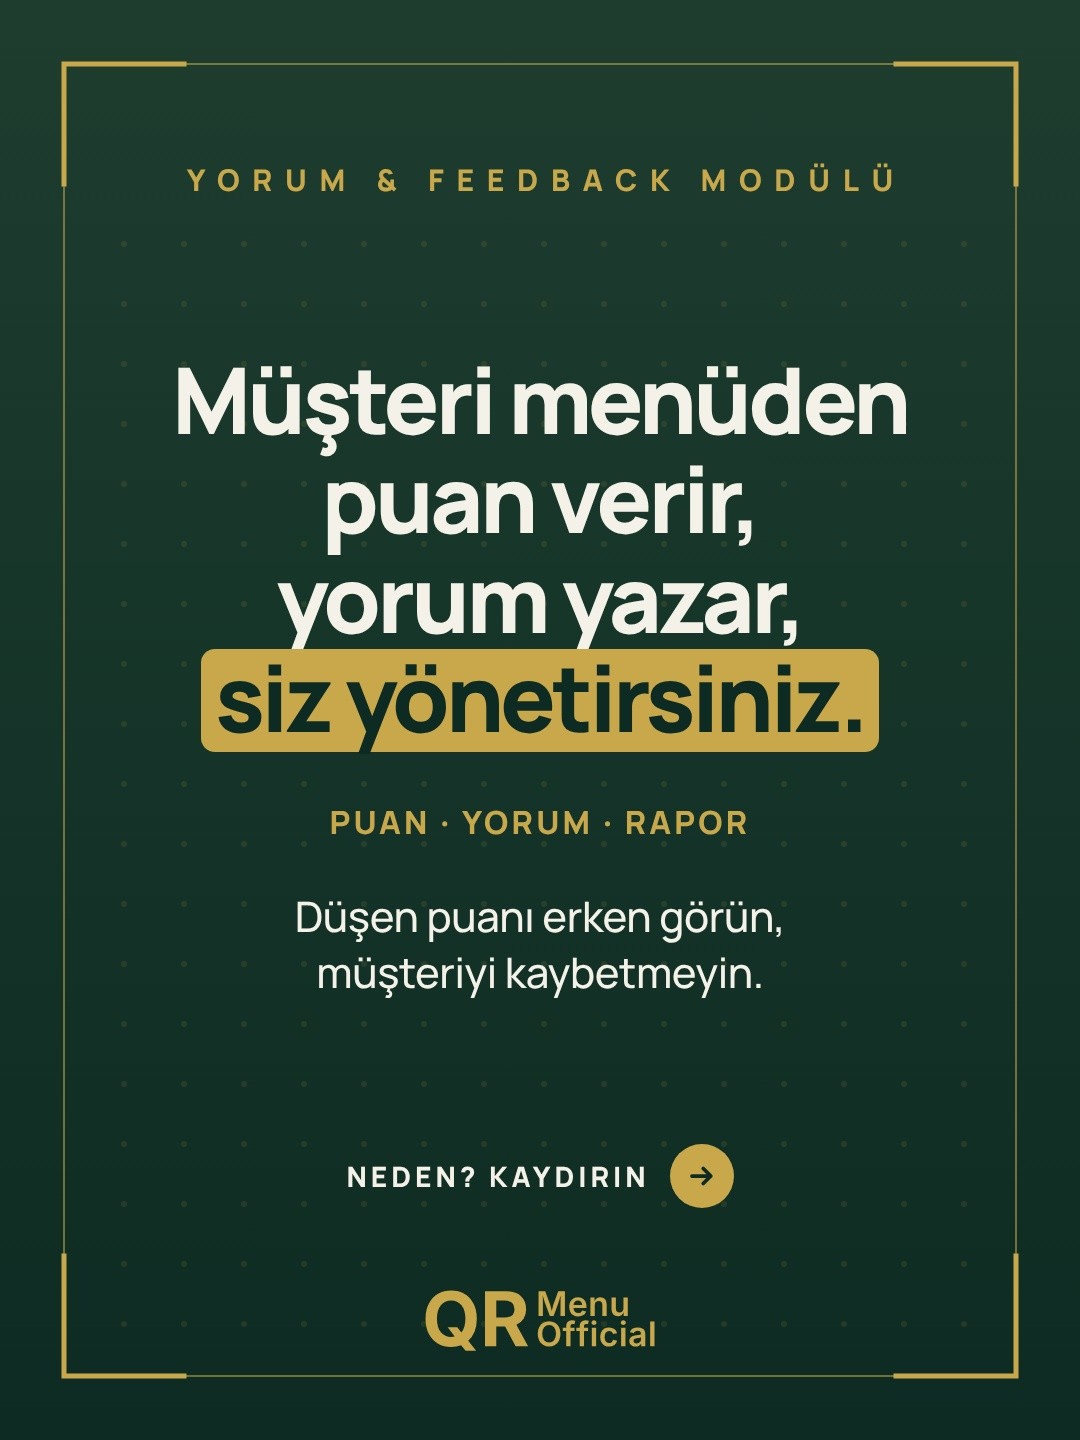
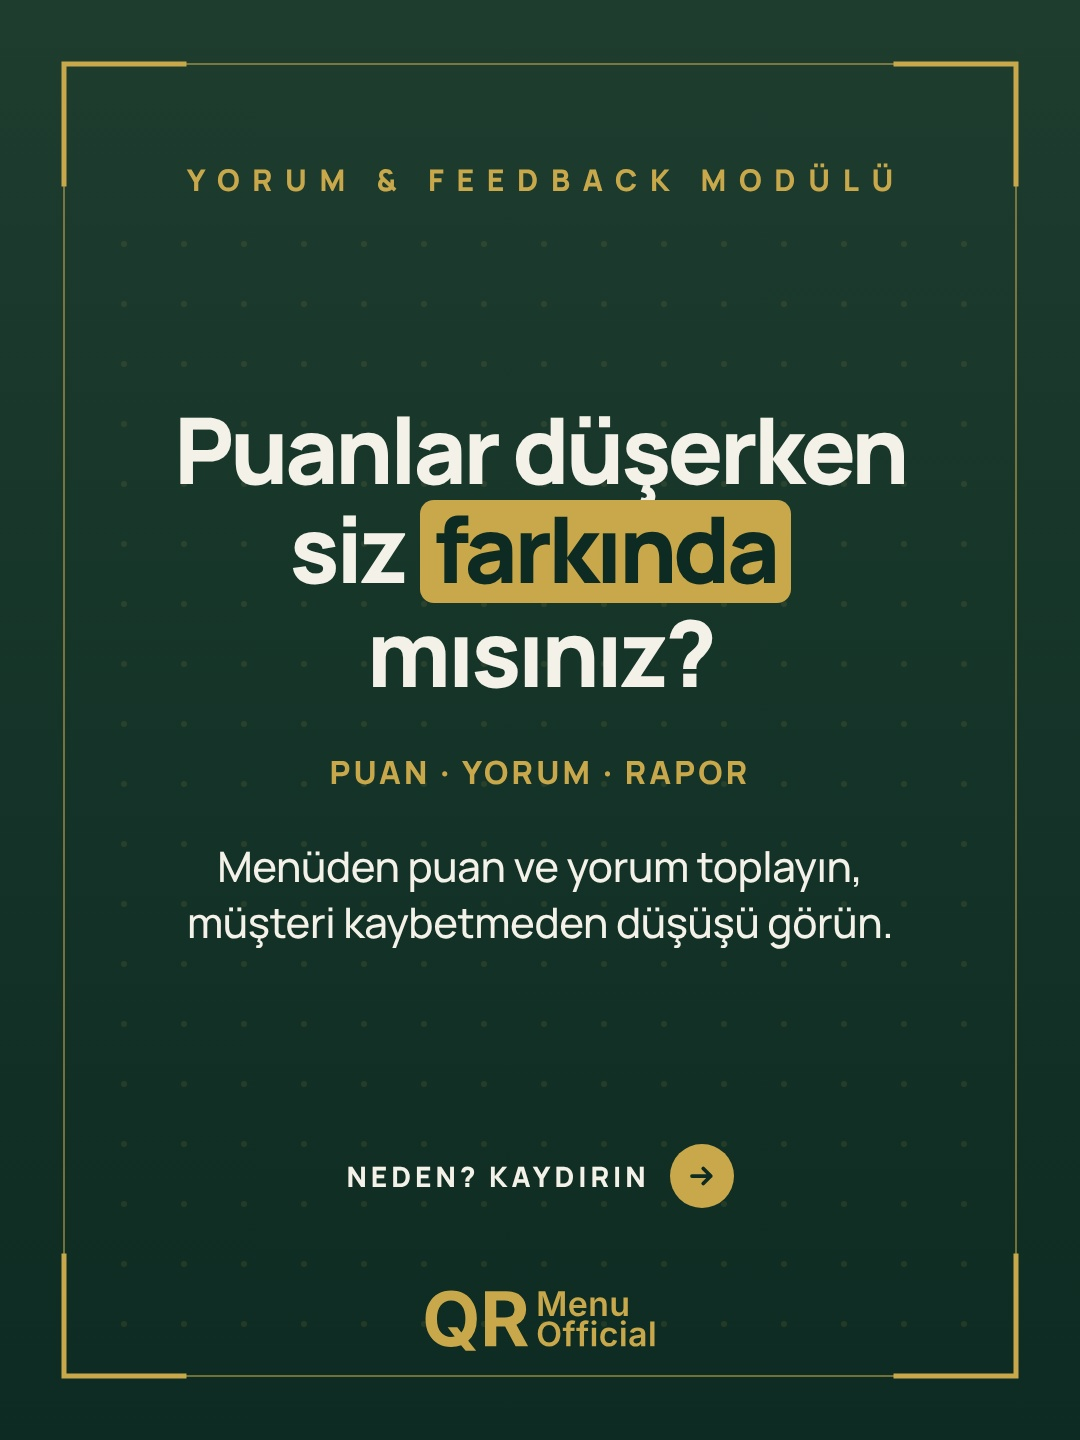
Yorum & Feedback carousel kapağı: Puanlar düşerken siz farkında mısınız?
Claude-Session: https://claude.ai/code/session_01FBw9rVwrniVjyFvtgVdFXq

Changed region(s): [[0.1528, 0.25, 0.8556, 0.6875]]

diff --git a/tools/ig-carousel/yorum-feedback.html b/tools/ig-carousel/yorum-feedback.html
@@ -175,9 +175,9 @@ const nx=(t,c)=>`<div class="nx">${t}<i>${ARW(c)}</i></div>`;
 const LAB='<div class="lab LCLS" style="font-size:30px;padding-top:34px">YORUM &amp; FEEDBACK MODÜLÜ</div>';
 const SL={
 1:{bg:'altin',html:()=>LAB.replace('LCLS','')+`
- <div class="area c" style="top:200px;bottom:290px"><div class="h" id="H" data-max="92" data-min="76">${L(['Müşteri menüden','puan verir,','yorum yazar,','[[siz yönetirsiniz.]]'])}</div>
+ <div class="area c" style="top:200px;bottom:290px"><div class="h" id="H" data-max="92" data-min="76">${L(['Puanlar düşerken','siz [[farkında]]','mısınız?'])}</div>
  <div class="langs">PUAN · YORUM · RAPOR</div>
- <div class="p" id="P" data-max="42" data-min="36">${L(['Düşen puanı erken görün,','müşteriyi kaybetmeyin.'])}</div></div>
+ <div class="p" id="P" data-max="42" data-min="36">${L(['Menüden puan ve yorum toplayın,','müşteri kaybetmeden düşüşü görün.'])}</div></div>
  ${nx('Neden? Kaydırın','#F4F1E8').replace('class="nx"','class="nx" style="bottom:232px"')}<div class="logo">${LG()}</div>`},
 2:{bg:'krem',html:()=>LAB.replace('LCLS','left')+`
  <div class="area top" style="top:236px;bottom:240px"><div class="h" id="H" data-max="84" data-min="68">${L(['Bu 3 soruyu','kendinize [[sorun:]]'])}</div>
